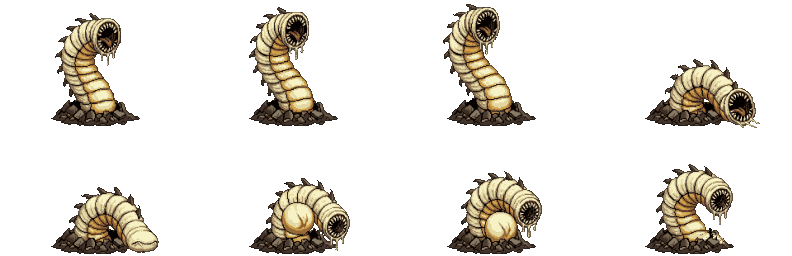
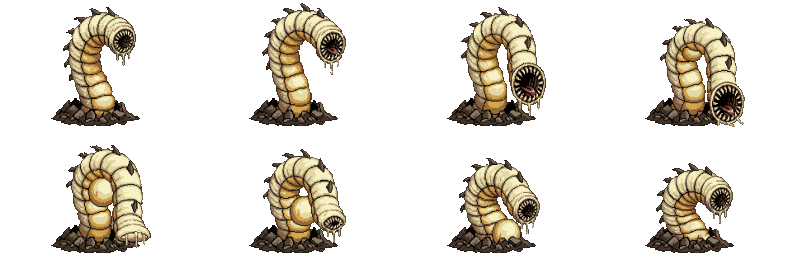
Ver des profondeurs : il avale en plongeant d'en haut ; notes du Dragon, de l'Hydre et du Ver

diff --git a/HISTORIQUE.md b/HISTORIQUE.md
@@ -992,6 +992,26 @@ Griffon 14, Cavalier 25, Moine 61, Chevalier 93, Ange 1597.
   s'assoit lourdement, puis bascule sur le dos.
 - **Images de la carte** (32 px) : Loup p1-4, Moine p1-2, Troll p1-1 ; pieds revus par l'utilisateur.
 
+**Le Dragon, l'Hydre et le Ver des profondeurs** (2026-11-20, branche `animations-dragon-hydre-ver`, PixelLab, environ
+1,2 $ ; choix de l'utilisateur).
+- **Coups reçus du Dragon et de l'Hydre** (« encore à finir » : l'utilisateur voulait un recul plus visible) : le
+  second modèle, 8 images, « recoils violently from a blow: it rears back… wings snap wide open… » (Dragon hit-2 : il
+  se cabre sur ses pattes arrière, ailes ouvertes) et « all the heads are thrown back on their long necks like whips,
+  then they swing forward again one after another » (Hydre hit-4, nettoyée). 8 essais coûtent environ 1,05 $ pour ces
+  grandes créatures.
+- **Ver des profondeurs** :
+  - **Il glisse vers sa cible** en attaquant : réglage `lunge` d'`animations.json` (0,45 : la part du chemin jusqu'à la
+    cible), commun à toutes les créatures ; `Shown.Lunge` avance pendant l'élan de l'attaque (`UnitStruck`), puis revient
+    à sa case (`_Process`).
+  - **Le sol se fend** devant lui quand il creuse (`BattleEffects.DrawCracks`) : une fente dentelée dans le sens de sa
+    marche, plus large au milieu, une lèvre de terre claire au-dessus, 3 ou 4 fentes plus fines ; juste avant son
+    passage, des mottes et un caillou tremblent au bord.
+  - **Il avale** (feuille `ver-des-profondeurs-swallow.png`, état `swallow` de `creature.py`) : swallow-6, il se dresse
+    très haut, se courbe et **plonge d'en haut**, bouche ouverte, sur sa proie (l'utilisateur : qu'il vienne d'en haut ;
+    le premier choix mordait de côté), puis une grosse boule descend dans son corps. La créature disparaît à l'image
+    `swallowFrame` (4 par défaut) ; il glisse aussi vers la proie. `--effect-preview=avaler` : chaque créature qui a une
+    feuille `swallow` avale l'ennemi le plus proche toutes les 2,5 s, sans rien changer aux nombres.
+
 #### Les Nains
 Commencé avec l'utilisateur (2026-11-11). Des créatures qui ne copient ni Heroes 3 ni Heroes 5 (choix de l'utilisateur).
 - **Philosophie : les halls de la montagne.** Des artisans têtus qui gravent des runes et bâtissent des machines.
@@ -1212,9 +1232,8 @@ creusée dans la roche autour d'un gouffre qui luit de rose et de violet, `objec
    Homme-lézard à la lance, Homme-grenouille frondeur, Minotaure mineur, Aberration à la chair pâle, Ver des profondeurs
    qui creuse une galerie dessinée par le jeu, Tyran œil qui flotte et tire un rayon violet, Hydre verte à cinq têtes qui
    mordent tout autour : images de combat, animations, petites images de la carte. Détail dans `HISTORIQUE.md`.
-   ✅ La ville sur la carte. **Plus tard** (choix de l'utilisateur,
-   2026-11-14) : revoir les animations du Ver des profondeurs (il devrait glisser vers sa cible en attaquant ; les
-   fissures devant lui quand il creuse sont à améliorer ; peut-être une animation où il avale une créature).
+   ✅ La ville sur la carte. ✅ Les animations du Ver des profondeurs revues (2026-11-20 : glisser, fissures,
+   avaler ; détail plus bas, « Le Dragon, l'Hydre et le Ver des profondeurs »).
    **À revoir** (idée de l'utilisateur, 2026-11-14) : l'attaque du Géant (Tour) qui frappe le sol avec sa colonne
    pourrait toucher une zone (les cases autour de sa cible) : une règle à concevoir avec la session règles.
 
@@ -2067,7 +2086,7 @@ des noyées, Antre des araignées, Crypte, Tour de la liche, Charnier).
     mottes, vue un peu d'en haut, dessus éclairé selon la pente, flanc à l'ombre, pierres, racines, herbe arrachée, miettes ;
     elle s'affaisse en s'effaçant). Essayés et écartés : des buttes soulevées en chemin, un bourrelet continu vu d'en haut
     (« liquide »), la galerie vue de côté. Images d'attaque et de transformation descendues pour que la terre touche le bas
-    de la case. Carte p1-3. **Plus tard** : glisser vers sa cible en attaquant, de meilleures fissures, peut-être avaler.
+    de la case. Carte p1-3. Glisser, fissures et avaler : 2026-11-20 (« Le Dragon, l'Hydre et le Ver des profondeurs »).
   - **Tyran œil** (64 px, L2-1, peau marbrée violet-brun) : il **flotte** (« flotte » : 14 pixels vides sous lui) ;
     attente calme-2, vol vent-4 (ses tentacules ondulent ; 6 images/s, 0,18 s par case ; attente 7 images/s, pause de 1 à
     3 s), attaque regard-3 (son œil s'ouvre tout grand). Son tir : le **rayon** du jeu (`rayon`, violet, droit, plus épais,

diff --git a/tools/art/METHODE.md b/tools/art/METHODE.md
@@ -336,6 +336,17 @@ les clés et le dossier `art-candidats/` sont décrits dans `CLAUDE.md` ; l'hist
     qui s'enchaînent : « sways, takes one heavy stumbling step backward, its knees bend and it sits down hard, then its
     upper body slowly falls back… each stage flows into the next ». Basculer d'un bloc en arrière n'est « pas
     naturel » (l'utilisateur) ; s'effondrer en avant « like a falling rock » non plus.
+  - **Un recul bien visible pour une grande créature** (Dragon, Hydre, 2026-11-20) : le second modèle, 8 images,
+    « recoils violently from a blow: it rears back onto its hind legs… its wings snap wide open, its tail lashes, then
+    it drops back down to exactly its starting pose » ; pour l'Hydre, « all the heads are thrown back on their long
+    necks like whips, then they swing forward again one after another ». **Prix** : une grande créature coûte bien plus
+    par essai (8 coups reçus du Dragon et de l'Hydre : environ 1,05 $).
+  - **Une créature qui avale** (le Ver, état `swallow`) : « rises very tall out of its hole, its body arching high up
+    and over to the right, then its head comes straight down from above, mouth-first… a big round lump slides down
+    inside its pale body ». Sans « from above », il mord de côté et crache parfois une boule ou un œuf. Les alertes
+    « pixels en plus » et « éclat » sont fausses ici (corps pâle, plus haut que d'habitude). 4 essais : environ 0,06 $.
+  - **Filmer le jeu** pour vérifier un geste : `--record=dossier --record-delay=s --record-time=s
+    --record-rect=x,y,l,h` (images WebP), avec `--effect-preview=coup`, `mort` ou `avaler`.
   - **Le second modèle refuse 6 images** (coups reçus) : multiples de 4 seulement ; un coup reçu en 8 images marche
     aussi (le Loup, le Moine).
 - **Leçons des Nains** (2026-11-16) :

diff --git a/PLAN.md b/PLAN.md
@@ -99,7 +99,8 @@ pirates).
   Mage un peu faible en duel ; la horde barbare devrait dominer les premières semaines (son moral la freine) ; les
   gardiens du Donjon ralentissent certaines petites cartes ; vus par `Duels_a_prix_egal`, à revoir avec l'utilisateur :
   l'Archer perd contre tous les niveaux 2, le Griffon bat largement les niveaux 3, le Vampire écrase le Moine ; le Squelette peut-être trop fort face aux paysans.
-- **Animations** (plus tard) : le Ver des profondeurs (glisser vers sa cible, les fissures, peut-être avaler).
+- ✅ **Animations du Ver des profondeurs** (2026-11-20, branche `animations-dragon-hydre-ver`) : il glisse vers sa
+  cible, le sol se fend devant lui, il avale en plongeant d'en haut.
 - L'IA apprend chaque nouvelle faction.
 
 ### Les héros, leurs classes et leurs compétences
@@ -187,7 +188,7 @@ nuages et des rochers dans les paysages ouverts, les flaques loin des obstacles 
 `morts-variees` : en arrière, sur le côté, une mort propre au Démon, à la Liche, au Roi de cristal, au Golem…).
 **Plus tard, si l'occasion se présente** : les jambes du Moloch qui se défont aussi.
 ✅ Un **coup reçu** par créature (2026-11-17), revu et choisi avec l'utilisateur (le Dragon, l'Hydre et le Démon par le
-second modèle de PixelLab ; « encore à finir » pour le Dragon et l'Hydre, selon lui).
+second modèle de PixelLab) ; ceux du Dragon et de l'Hydre refaits, un recul bien visible (2026-11-20).
 ✅ La mort et le coup reçu de l'Archer, du Griffon et du Cavalier (2026-11-19, branche `morts-chateau`) ; ceux du
 **Loup**, du **Moine** et du **Troll** refaits d'après leurs nouvelles images (2026-11-19).
 
